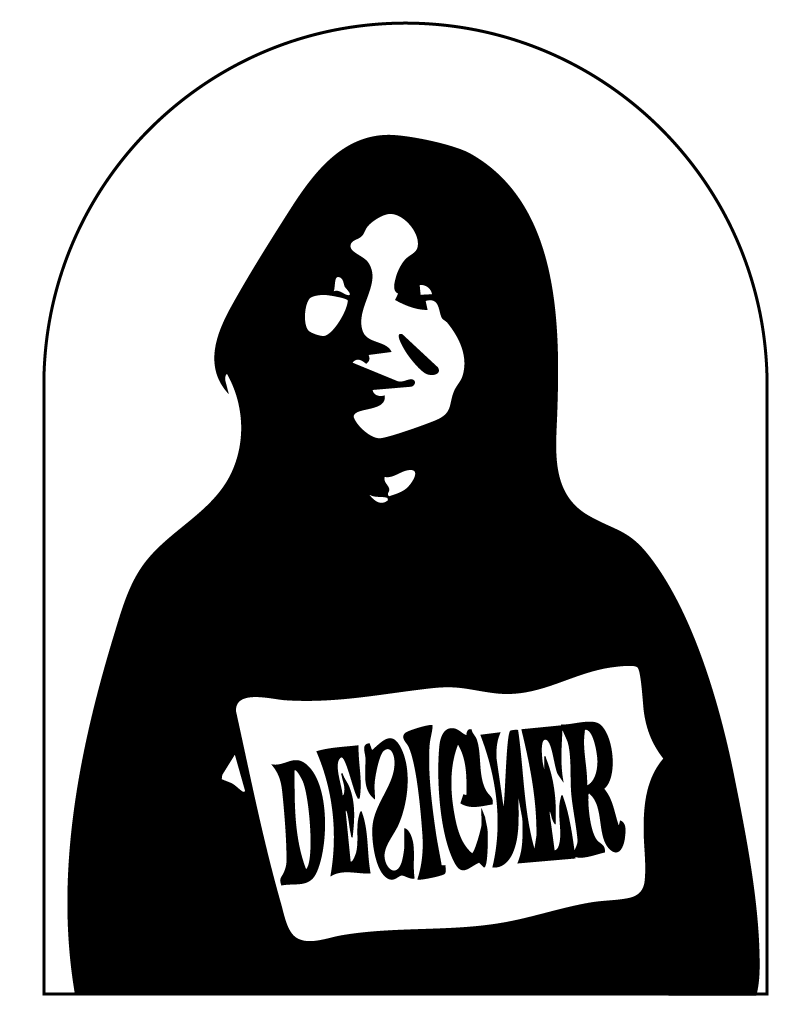
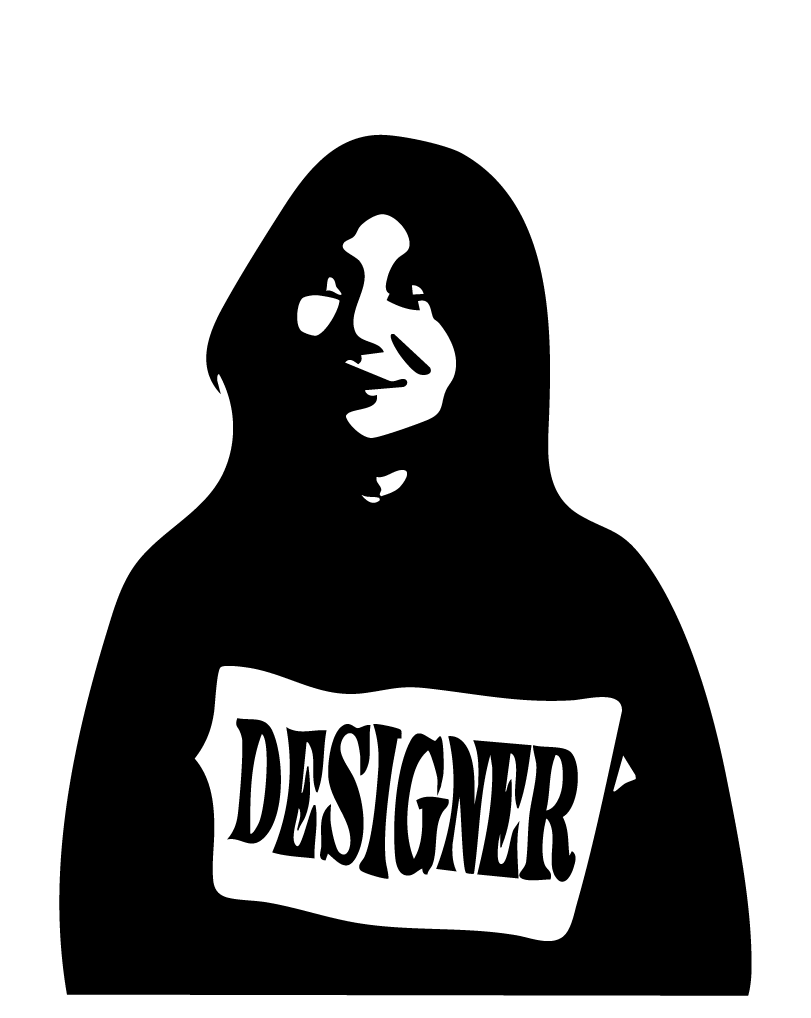
Update BDL Now case study: add designer to team, add RShiny to tools

diff --git a/bdlnow-case-study.html b/bdlnow-case-study.html
@@ -180,7 +180,7 @@
     <div class="hero-tags">
       <span class="hero-tag-pill filled">Live</span>
       <span class="hero-tag-pill">Product Designer</span>
-      <span class="hero-tag-pill">Figma · WordPress · Illustrator · Photoshop · After Effects</span>
+      <span class="hero-tag-pill">Figma · WordPress · Illustrator · Photoshop · After Effects · RShiny</span>
     </div>
     <h1 class="hero-title">Making Canada's real-time GDP estimate readable by anyone</h1>
     <p class="hero-desc">BDLNow is the Business Data Lab's weekly GDP nowcast for Canada. A nowcast estimates economic growth in real time, before official data is published. Powered by 45 indicators, updated every Monday, months ahead of Statistics Canada. I designed the interface and integrated the R Shiny application into the live WordPress site.</p>
@@ -193,7 +193,7 @@
       </div>
       <div class="cs-overview-item">
         <span class="cs-overview-label"><svg width="12" height="12" viewBox="0 0 14 14" fill="none" stroke="currentColor" stroke-width="1.5" stroke-linecap="round" stroke-linejoin="round"><path d="M9.5 2.5l2 2-7 7-2.5.5.5-2.5 7-7z"/><line x1="8" y1="4" x2="10" y2="6"/></svg>Tools</span>
-        <span class="cs-overview-value">Figma · WordPress · Illustrator · Photoshop · After Effects</span>
+        <span class="cs-overview-value">Figma · WordPress · Illustrator · Photoshop · After Effects · RShiny</span>
       </div>
       <div class="cs-overview-item">
         <span class="cs-overview-label"><svg width="12" height="12" viewBox="0 0 14 14" fill="none" stroke="currentColor" stroke-width="1.5" stroke-linecap="round" stroke-linejoin="round"><rect x="1.5" y="1.5" width="11" height="11" rx="2"/><line x1="1.5" y1="5.5" x2="12.5" y2="5.5"/><line x1="1.5" y1="9" x2="12.5" y2="9"/><line x1="5.5" y1="5.5" x2="5.5" y2="12.5"/></svg>Service</span>
@@ -201,7 +201,7 @@
       </div>
       <div class="cs-overview-item">
         <span class="cs-overview-label"><svg width="12" height="12" viewBox="0 0 14 14" fill="none" stroke="currentColor" stroke-width="1.5" stroke-linecap="round" stroke-linejoin="round"><circle cx="5" cy="4" r="2"/><circle cx="10" cy="4.5" r="1.6"/><path d="M1 12c0-2.2 1.8-4 4-4s4 1.8 4 4"/><path d="M10.5 8.5c1.5.4 2.5 1.7 2.5 3.5"/></svg>With</span>
-        <span class="cs-overview-value">1 Economist · 1 Data Scientist</span>
+        <span class="cs-overview-value">1 Economist · 1 Data Scientist · 1 Designer</span>
       </div>
     </div>
 
